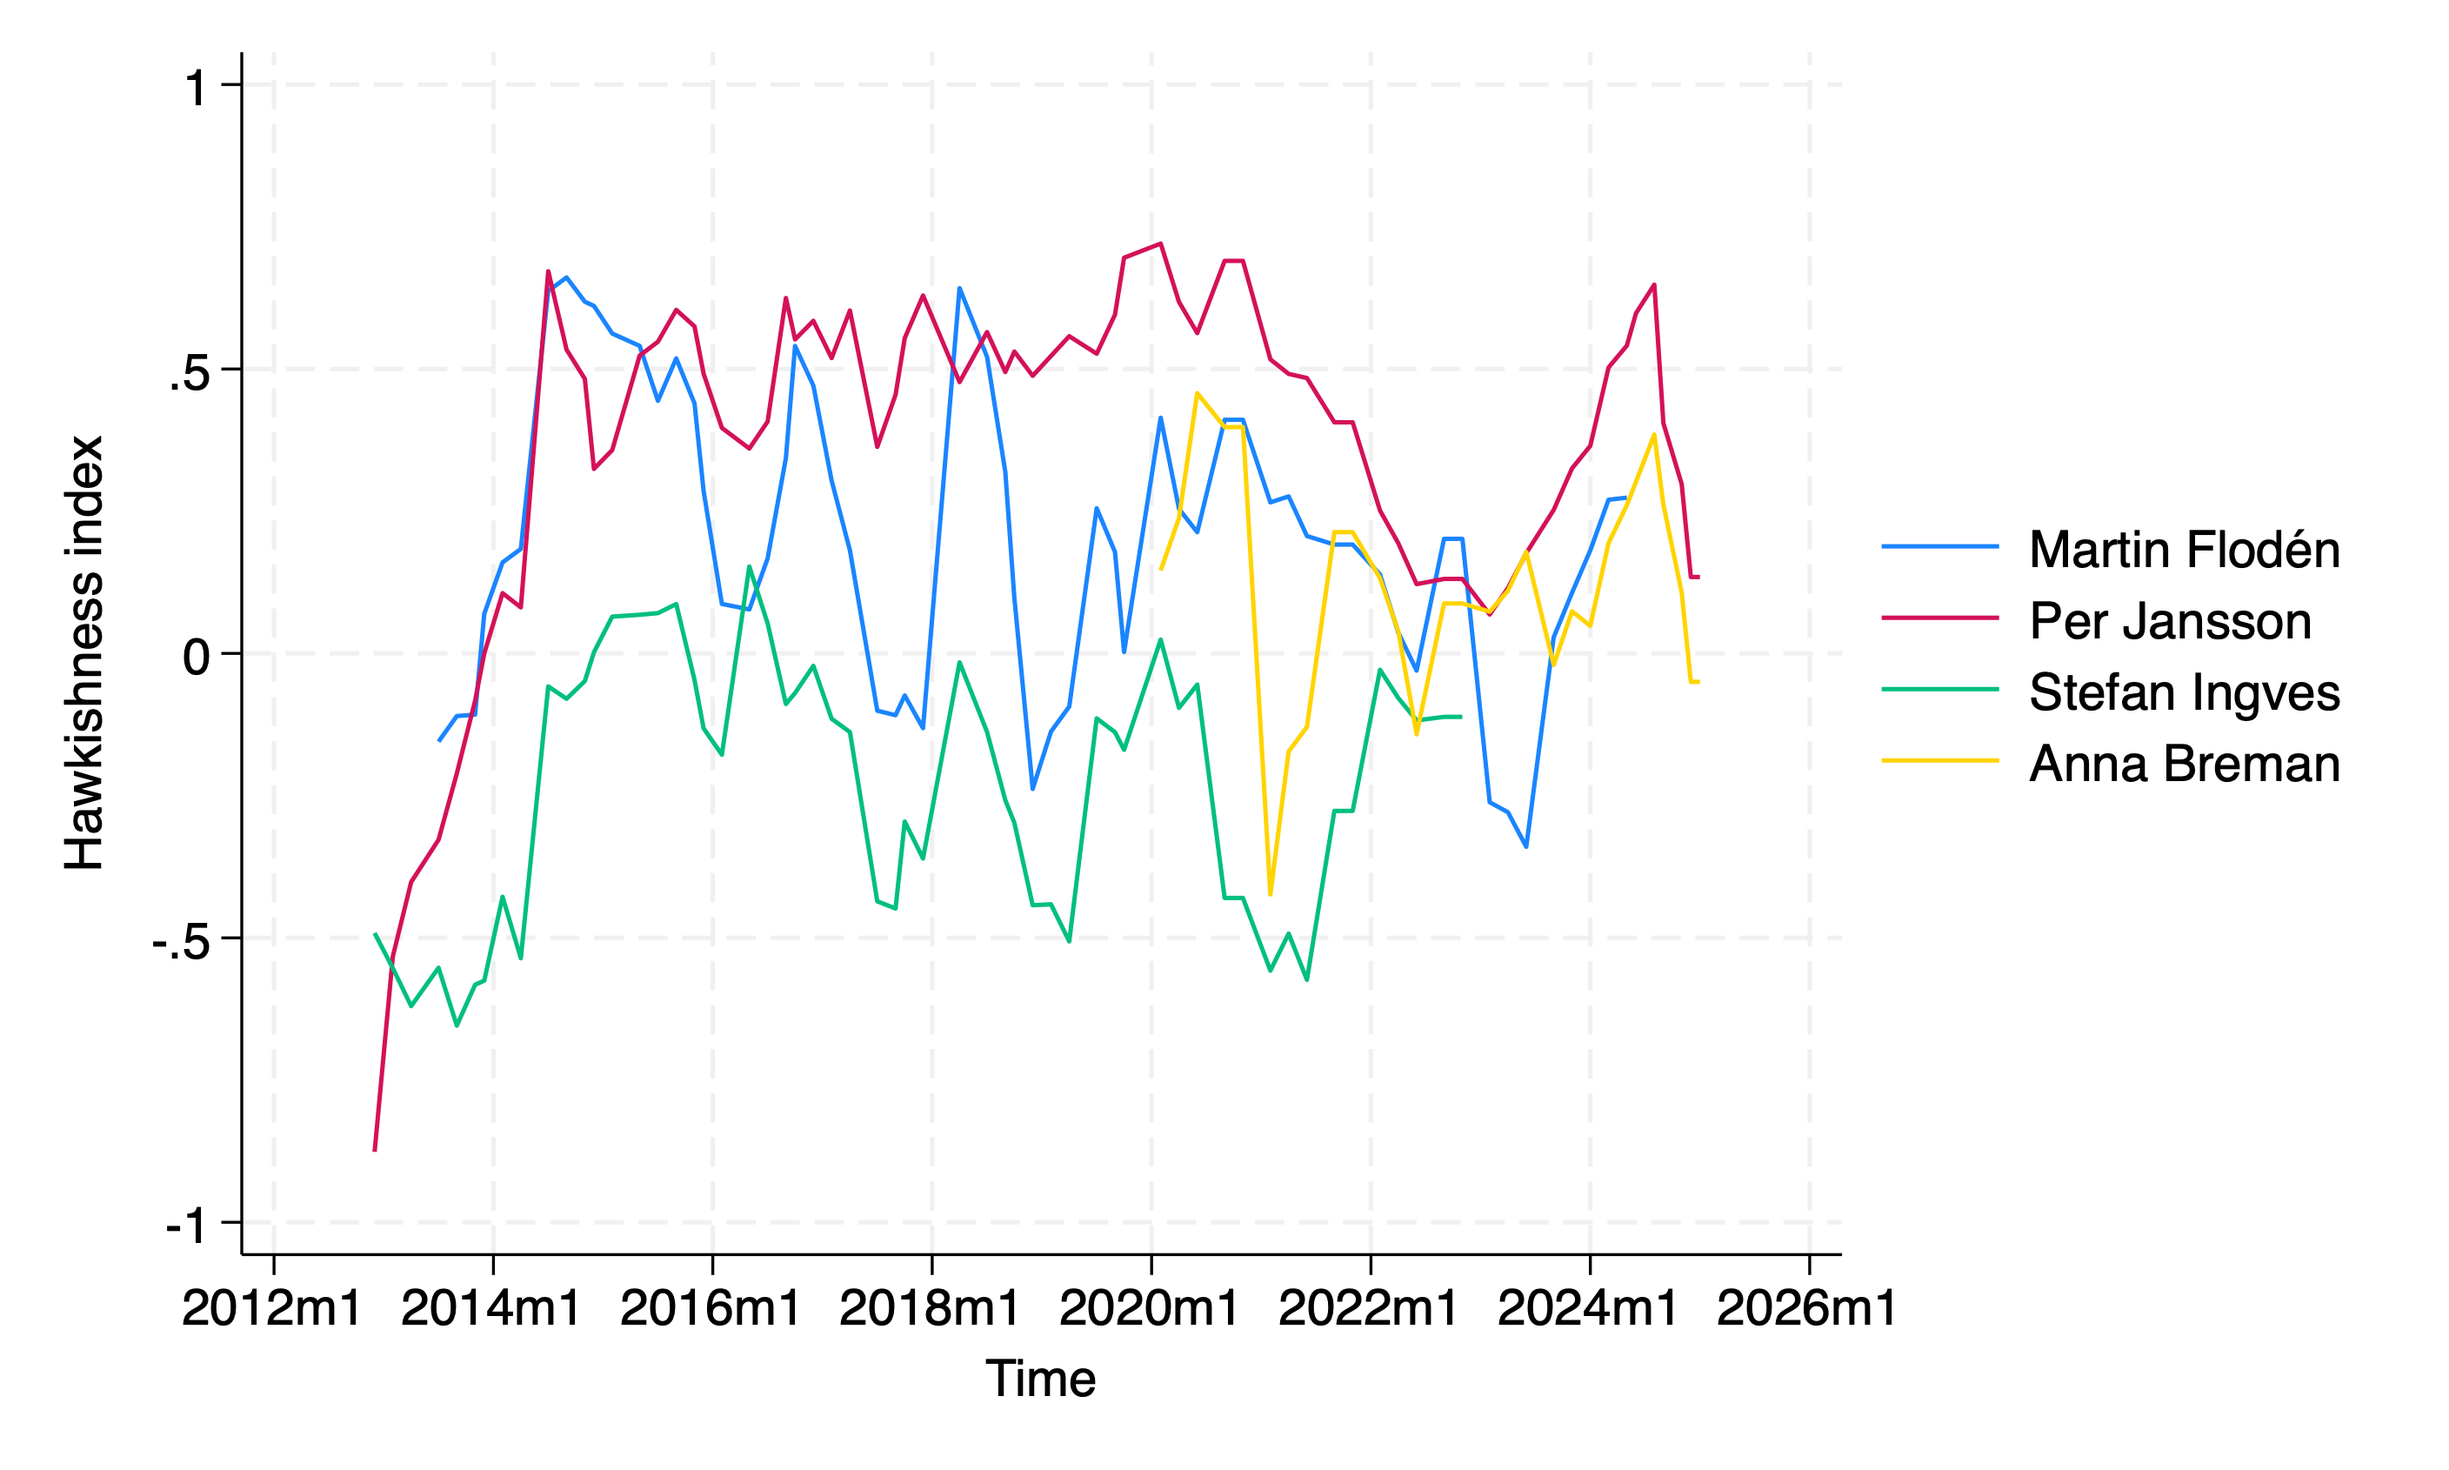
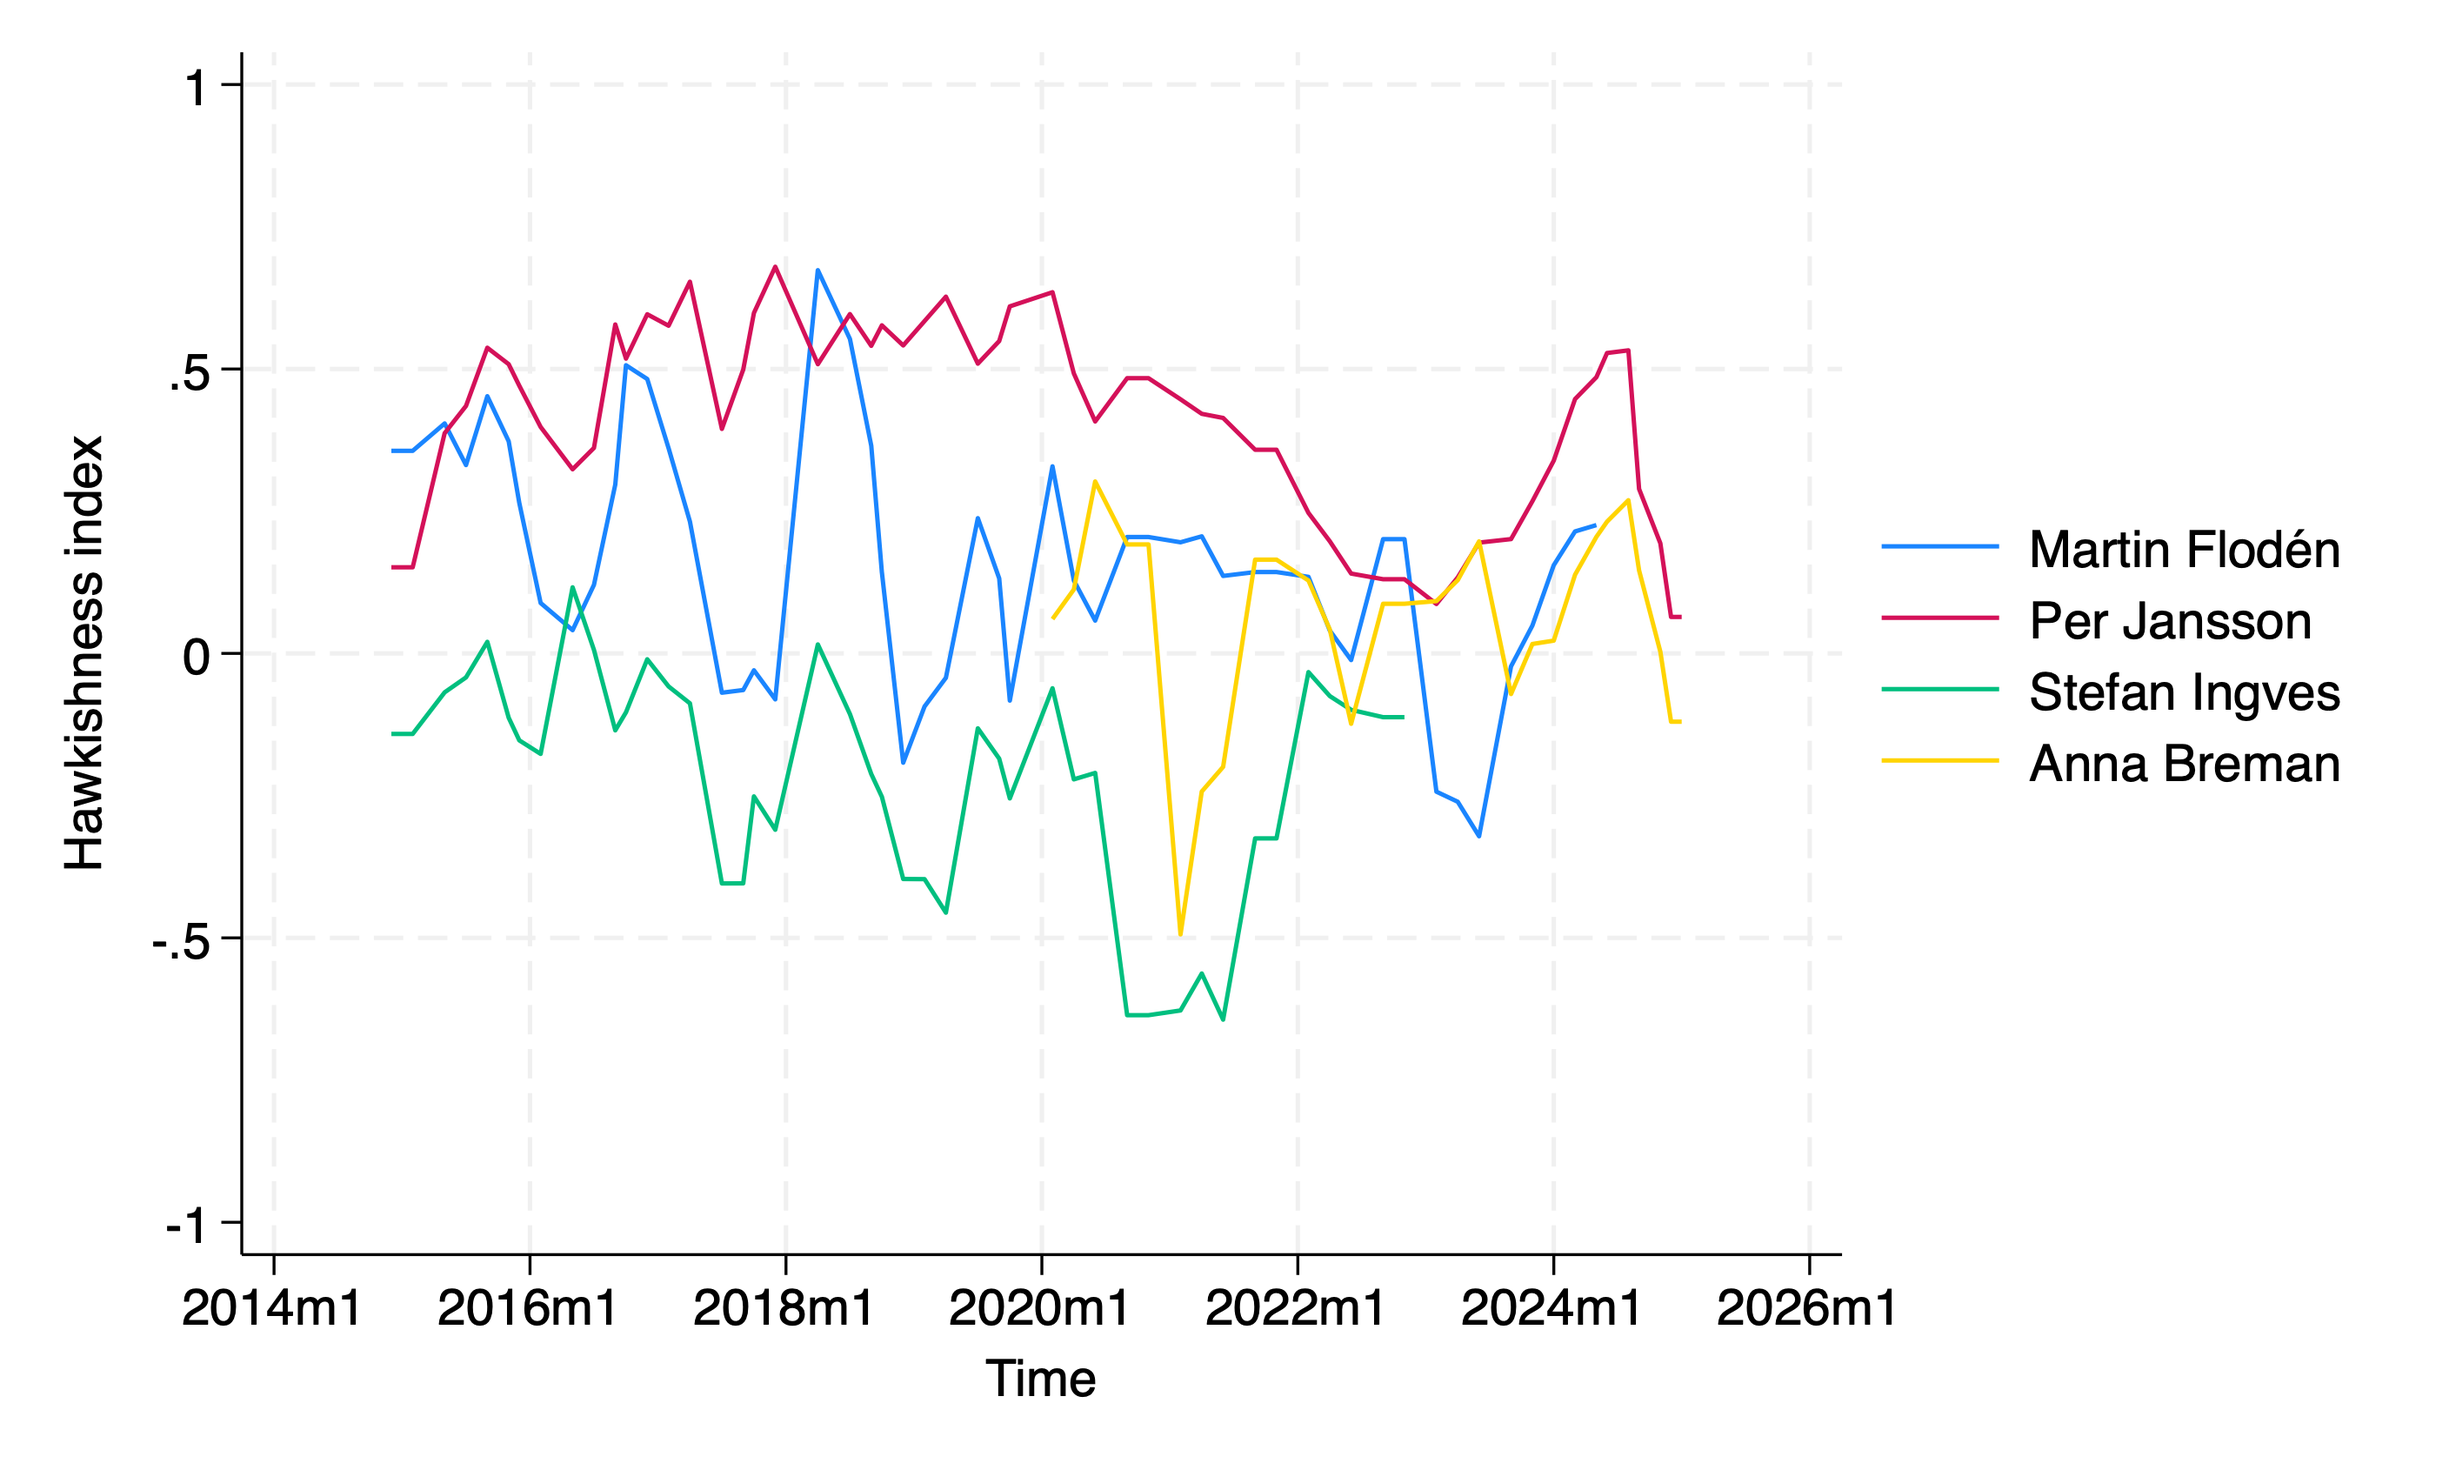
Adjust sample period

diff --git a/Output/taylor_rule.tex b/Output/taylor_rule.tex
@@ -5,19 +5,19 @@
             &\multicolumn{1}{c}{(1)}\\
             &\multicolumn{1}{c}{repo\_rate}\\
 \hline
-gdp\_gap     &      -0.516\sym{***}\\
-            &     (-7.46)         \\
+gdp\_gap     &      -0.541\sym{***}\\
+            &     (-6.29)         \\
 [1em]
-kpif\_val    &       0.382\sym{***}\\
-            &      (6.32)         \\
+kpif\_val    &       0.350\sym{***}\\
+            &      (5.19)         \\
 [1em]
-res\_hawk    &       1.758\sym{**} \\
-            &      (2.90)         \\
+res\_hawk    &       2.432\sym{*}  \\
+            &      (2.35)         \\
 [1em]
-\_cons      &      -0.406\sym{*}  \\
-            &     (-2.12)         \\
+\_cons      &      -0.237         \\
+            &     (-1.06)         \\
 \hline
-\(N\)       &          70         \\
+\(N\)       &          58         \\
 \hline\hline
 \multicolumn{2}{l}{\footnotesize \textit{t} statistics in parentheses}\\
 \multicolumn{2}{l}{\footnotesize \sym{*} \(p<0.05\), \sym{**} \(p<0.01\), \sym{***} \(p<0.001\)}\\
